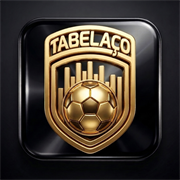
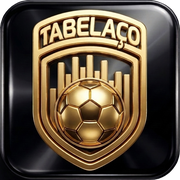
Letras nas colunas com legenda, nomes que cabem, e o icone novo
Tres coisas que ele pediu olhando o app:

**As colunas das Estatisticas se encavalavam.** Eram "Vitorias", "Empates", "Derrotas" e
"Aproveit." escritos por extenso, e em coluna estreita as palavras batiam umas nas outras.
Viraram V, E, D e A. Como letra solta nao explica nada, entrou uma legenda embaixo de cada
tabela dizendo o que cada uma quer dizer. A Classificacao ganhou a mesma legenda: ela ja
usava P, J, V, E, D e SG sem explicar em lugar nenhum.

**Nome de time comprido vinha cortado.** "Vasco da Gama" virava "Vasco da" e "Athletico
Paranaense" sumia no meio. Em vez de apelidar clube por clube na mao, o app agora MEDE cada
nome depois de desenhado e baixa a fonte so daquele que nao coube, de meio em meio pixel, ate
caber ou ate o piso de 9,5 px. So o texto encolhe, o escudo fica do mesmo tamanho. Testado
com a tabela na largura de um celular: nenhum nome fica cortado, e o pior caso, o Athletico
Paranaense, cabe no piso.

**O icone estava velho.** Refeito a partir da "Logo tabelaco.png" de 25/08, que enche melhor
o quadrado. Entrou tambem um icon-maskable-512 quadrado cheio: o Android recorta o icone
"maskable" num circulo, e os de canto arredondado saiam cortados no lugar errado.

diff --git a/index.html b/index.html
@@ -260,7 +260,20 @@
   th.n{width:8%}
   th.n.pos{width:7%}
   th.n.larga{width:10%}
-  th.n.aprov{width:15%}
+  th.n.aprov{width:13%}
+  /* Legenda das abreviações. As colunas são letras soltas para caber na largura de
+     um celular; sem esta linha ninguém sabe o que é SG nem A. Fica embaixo da
+     tabela, e não ao lado: ao lado ela roubaria a largura do nome do time, que é
+     justamente o que já estava apertado. */
+  .legenda-tab{display:flex;flex-wrap:wrap;gap:4px 14px;justify-content:center;
+     margin-top:10px;font-family:var(--f-mono);font-size:10px;color:var(--mut);
+     letter-spacing:.04em}
+  .legenda-tab b{color:var(--txt);font-weight:600;margin-right:3px}
+  /* O nome do time encolhe sozinho até caber. Ver caberNomes(): o app mede depois
+     de desenhar e vai baixando a fonte de meio em meio pixel. O inline-block é o
+     que permite medir a largura do texto separada da do escudo. */
+  .nomeTime{display:inline-block;vertical-align:middle;max-width:100%;
+     overflow:hidden;text-overflow:ellipsis;white-space:nowrap}
   tr:last-child td{border-bottom:none}
   /* a linha do time do coração vem preenchida com a cor do clube, como a faixa
      verde do desenho — só que na cor de quem está olhando */
@@ -1024,22 +1037,34 @@ function tabelaClassificacao(d, forcarCols) {
       }
       const meu = t.time === S.time ? ' class="meu"' : '';
       html += `<tr${meu}><td class="pos">${t.posicao}</td>` +
-        `<td class="esq">${escudoHTML(t.time, t.escudo)}${esc(t.time)}</td>` +
+        `<td class="esq">${escudoHTML(t.time, t.escudo)}<span class="nomeTime">${esc(t.time)}</span></td>` +
         `<td class="pts">${t.pontos}</td><td>${t.jogos}</td><td>${t.vitorias}</td>` +
         `<td>${t.empates}</td><td>${t.derrotas}</td>` +
         `<td>${t.saldo > 0 ? '+' : ''}${t.saldo}</td></tr>`;
     }
     html += '</tbody></table></div>';
   }
-  return html + '</div>';
+  return html + '</div>' + legendaTabela([
+    ['P', 'pontos'], ['J', 'jogos'], ['V', 'vitórias'],
+    ['E', 'empates'], ['D', 'derrotas'], ['SG', 'saldo de gols'],
+  ]);
+}
+
+/* Uma linha só, embaixo da tabela, dizendo o que cada letra quer dizer. */
+function legendaTabela(pares) {
+  return '<div class="legenda-tab">' +
+    pares.map(([sigla, oque]) => `<span><b>${sigla}</b>${oque}</span>`).join('') +
+    '</div>';
 }
 
 function paginaEstatisticas(d, forcarCols) {
   if (!d.classificacao.length) return '<div class="vazio">Sem estatísticas para este campeonato.</div>';
   const ordenado = [...d.classificacao].sort((a, b) => b.vitorias - a.vitorias || a.derrotas - b.derrotas);
+  /* Eram as palavras inteiras, e em coluna estreita elas se encavalavam umas nas
+     outras. Viraram letras, com a legenda embaixo explicando cada uma. */
   const cabecalho = '<thead><tr>' +
-    '<th class="esq">Time</th><th class="n aprov">Vitórias</th><th class="n aprov">Empates</th>' +
-    '<th class="n aprov">Derrotas</th><th class="n aprov">Aproveit.</th>' +
+    '<th class="esq">Time</th><th class="n">V</th><th class="n">E</th>' +
+    '<th class="n">D</th><th class="n aprov">A</th>' +
     '</tr></thead>';
   const cols = forcarCols || colunasEmAltura(ordenado.length * ALT_LINHA + 44);
 
@@ -1050,13 +1075,15 @@ function paginaEstatisticas(d, forcarCols) {
       const max = t.jogos * 3;
       const apr = max ? Math.round(t.pontos / max * 100) : 0;
       const meu = t.time === S.time ? ' class="meu"' : '';
-      html += `<tr${meu}><td class="esq">${escudoHTML(t.time, t.escudo)}${esc(t.time)}</td>` +
+      html += `<tr${meu}><td class="esq">${escudoHTML(t.time, t.escudo)}<span class="nomeTime">${esc(t.time)}</span></td>` +
         `<td class="pts">${t.vitorias}</td><td>${t.empates}</td><td>${t.derrotas}</td>` +
         `<td><b>${apr}%</b></td></tr>`;
     }
     html += '</tbody></table></div>';
   }
-  return html + '</div>';
+  return html + '</div>' + legendaTabela([
+    ['V', 'vitórias'], ['E', 'empates'], ['D', 'derrotas'], ['A', 'aproveitamento'],
+  ]);
 }
 
 function paginaSaldo(d, forcarCols) {
@@ -1212,6 +1239,32 @@ function desenharTudo(manterPagina) {
   desenharPontos();
   pintar();
   ajustarColunas(d);
+  caberNomes();
+}
+
+/* Nome de time comprido vinha cortado com reticências: "Vasco da Gama" virava
+   "Vasco da" e "Athletico Paranaense" sumia no meio. Em vez de apelidar cada
+   clube na mão, o app MEDE cada nome depois de desenhado e baixa a fonte só
+   daquele que não coube, até caber ou até o piso de legibilidade.
+   Só o texto encolhe: o escudo do lado fica do mesmo tamanho. */
+const FONTE_PISO = 9.5;
+function caberNomes(raiz) {
+  const alvos = (raiz || document).querySelectorAll('.nomeTime, .jogo .nome');
+  for (const n of alvos) {
+    n.style.fontSize = '';                       // volta ao tamanho normal antes de medir
+    const caixa = n.closest('td.esq') || n.parentElement;
+    if (!caixa) continue;
+    let tam = parseFloat(getComputedStyle(n).fontSize);
+    /* dois testes: o texto estourando a própria caixa, e a célula inteira
+       estourando a coluna (é o caso da tabela, onde o escudo divide o espaço) */
+    const estoura = () => n.scrollWidth > n.clientWidth + 1 ||
+                          caixa.scrollWidth > caixa.clientWidth + 1;
+    let voltas = 0;
+    while (estoura() && tam > FONTE_PISO && voltas++ < 24) {
+      tam -= 0.5;
+      n.style.fontSize = tam + 'px';
+    }
+  }
 }
 
 /* A conta de quantas colunas cabem é só uma estimativa: nome de time, escudo e
@@ -1232,7 +1285,12 @@ function ajustarColunas(d) {
     let n = caixa ? Number(caixa.style.getPropertyValue('--cols')) || 1 : 1;
     const teto = maxColunas();
     const sobra = () => pag.scrollHeight > pag.clientHeight + 6;
-    const redesenhar = (cols, lim) => { pag.innerHTML = conteudoPagina(p, d, cols, lim); };
+    /* cada redesenho refaz o HTML da página, então o ajuste de nome tem de vir
+       junto: senão a última versão desenhada fica com os nomes cortados de novo */
+    const redesenhar = (cols, lim) => {
+      pag.innerHTML = conteudoPagina(p, d, cols, lim);
+      caberNomes(pag);
+    };
 
     while (n < teto && sobra()) { n++; redesenhar(n); }
 
